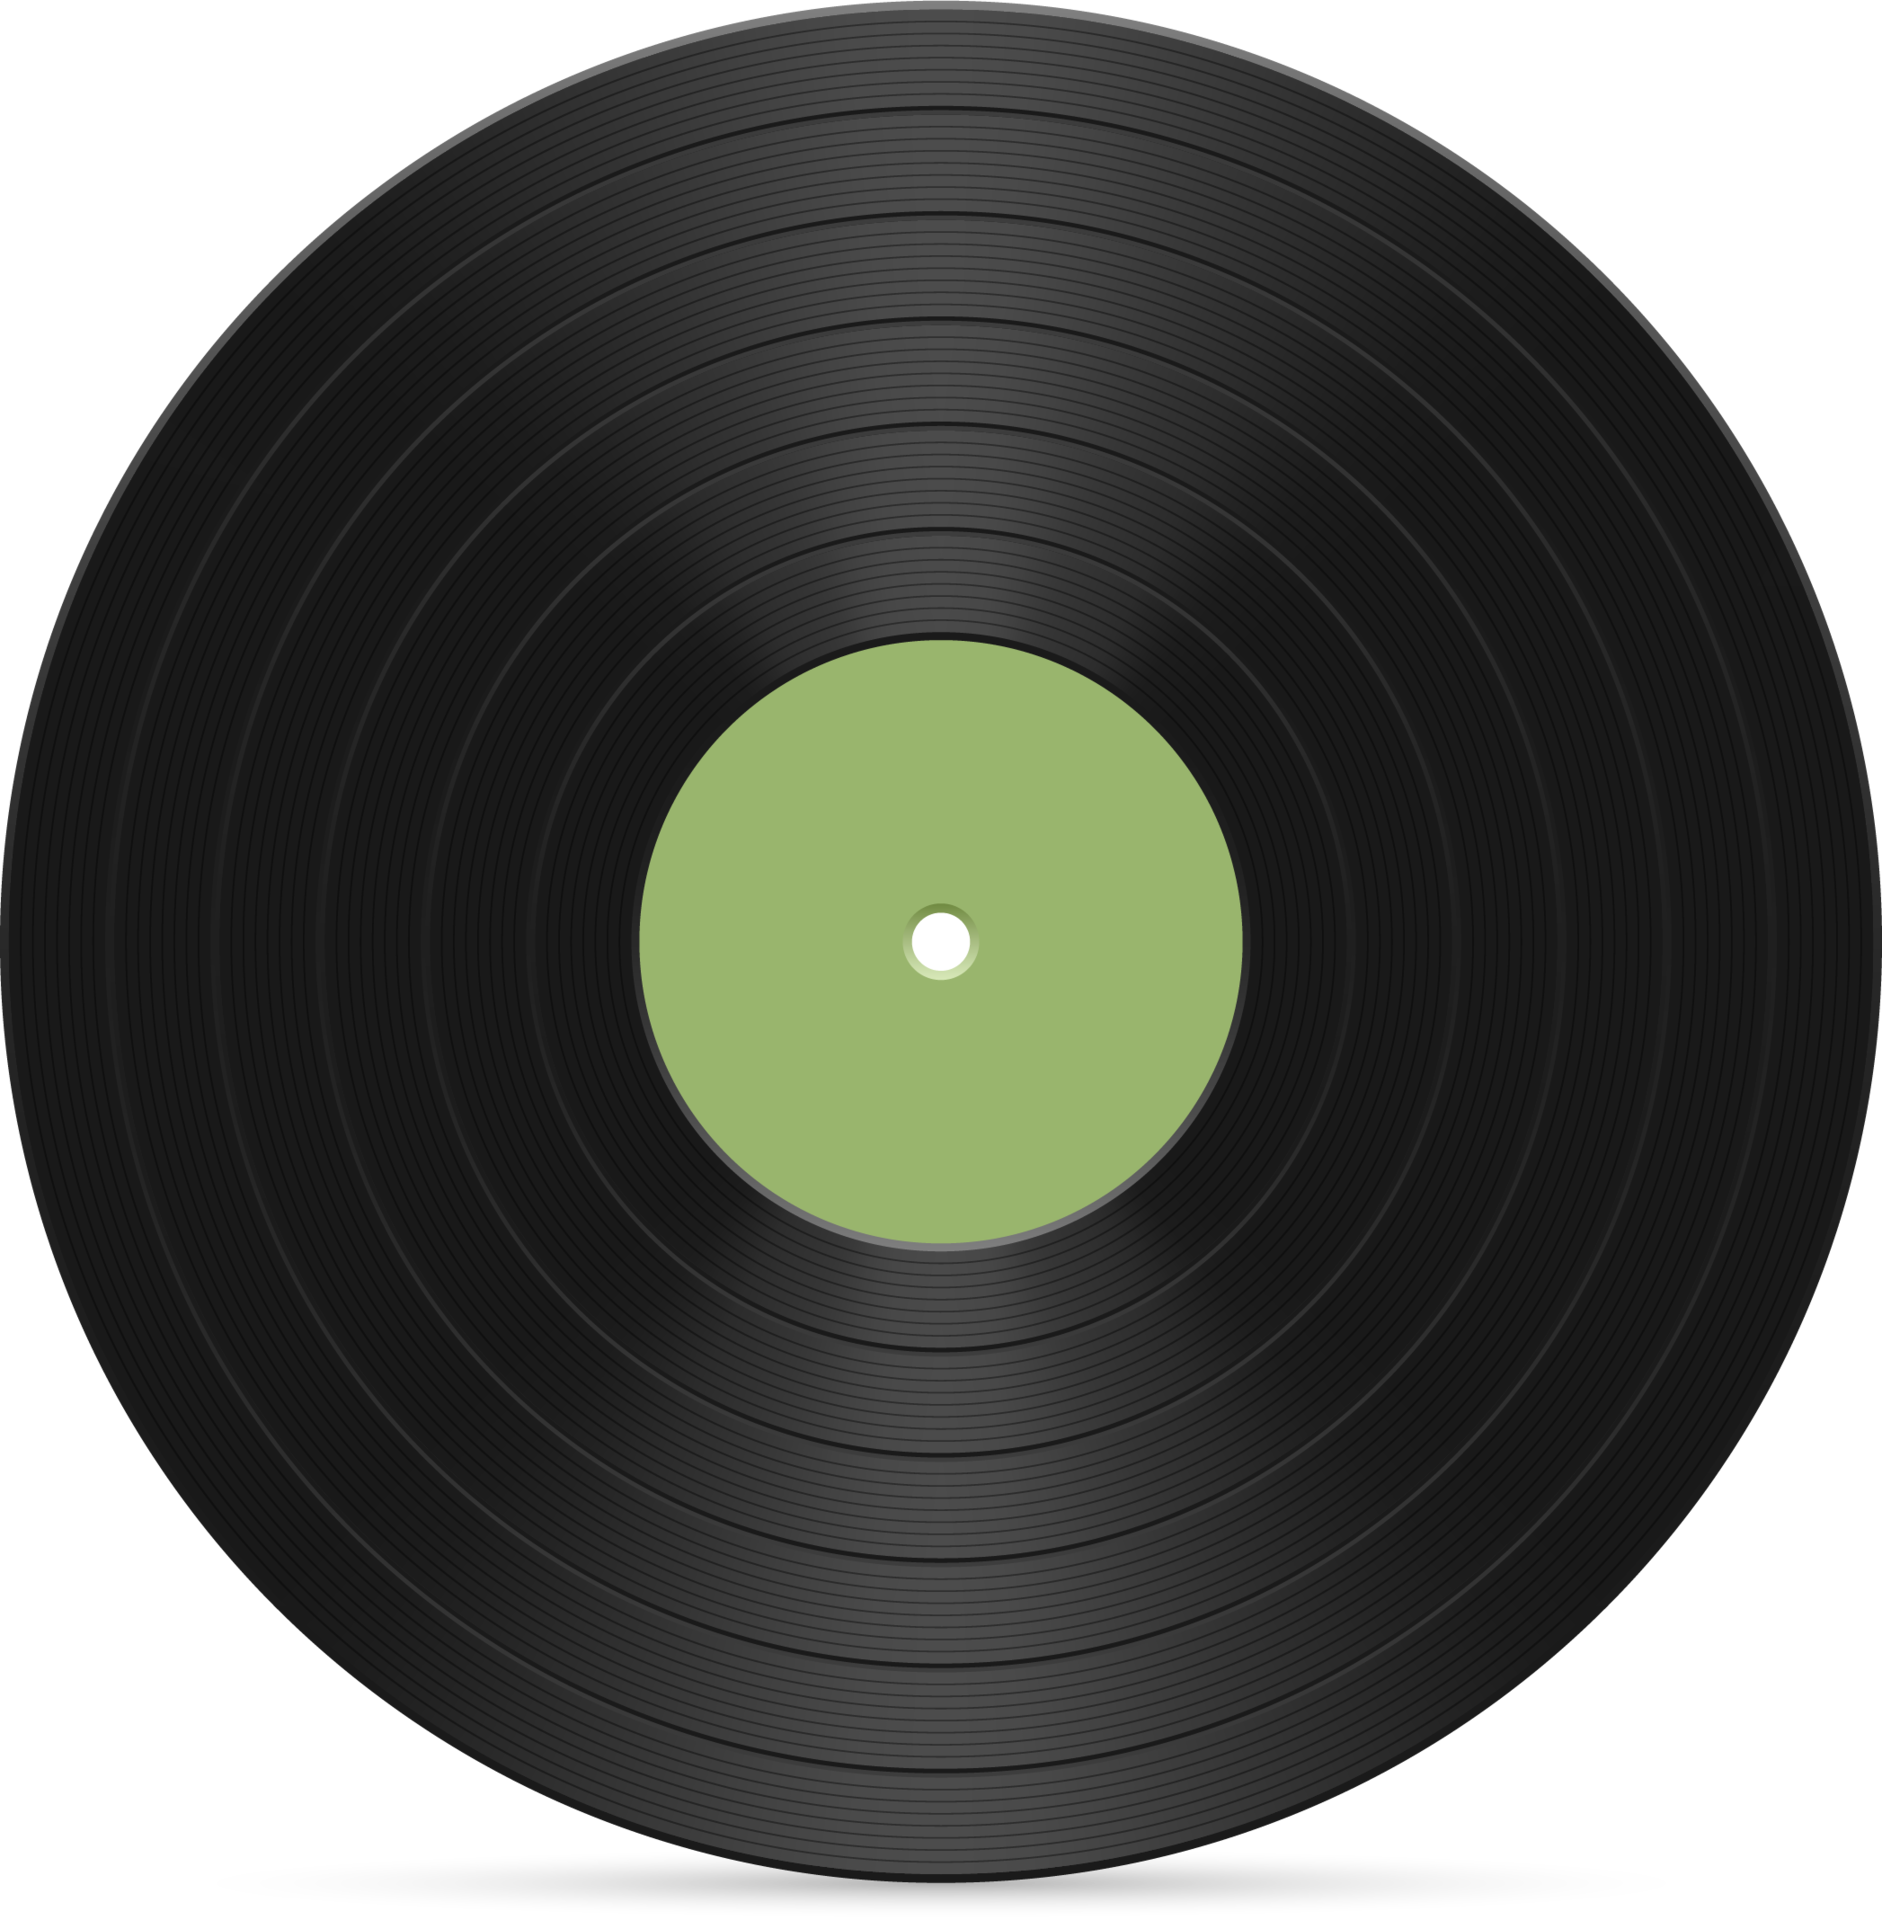
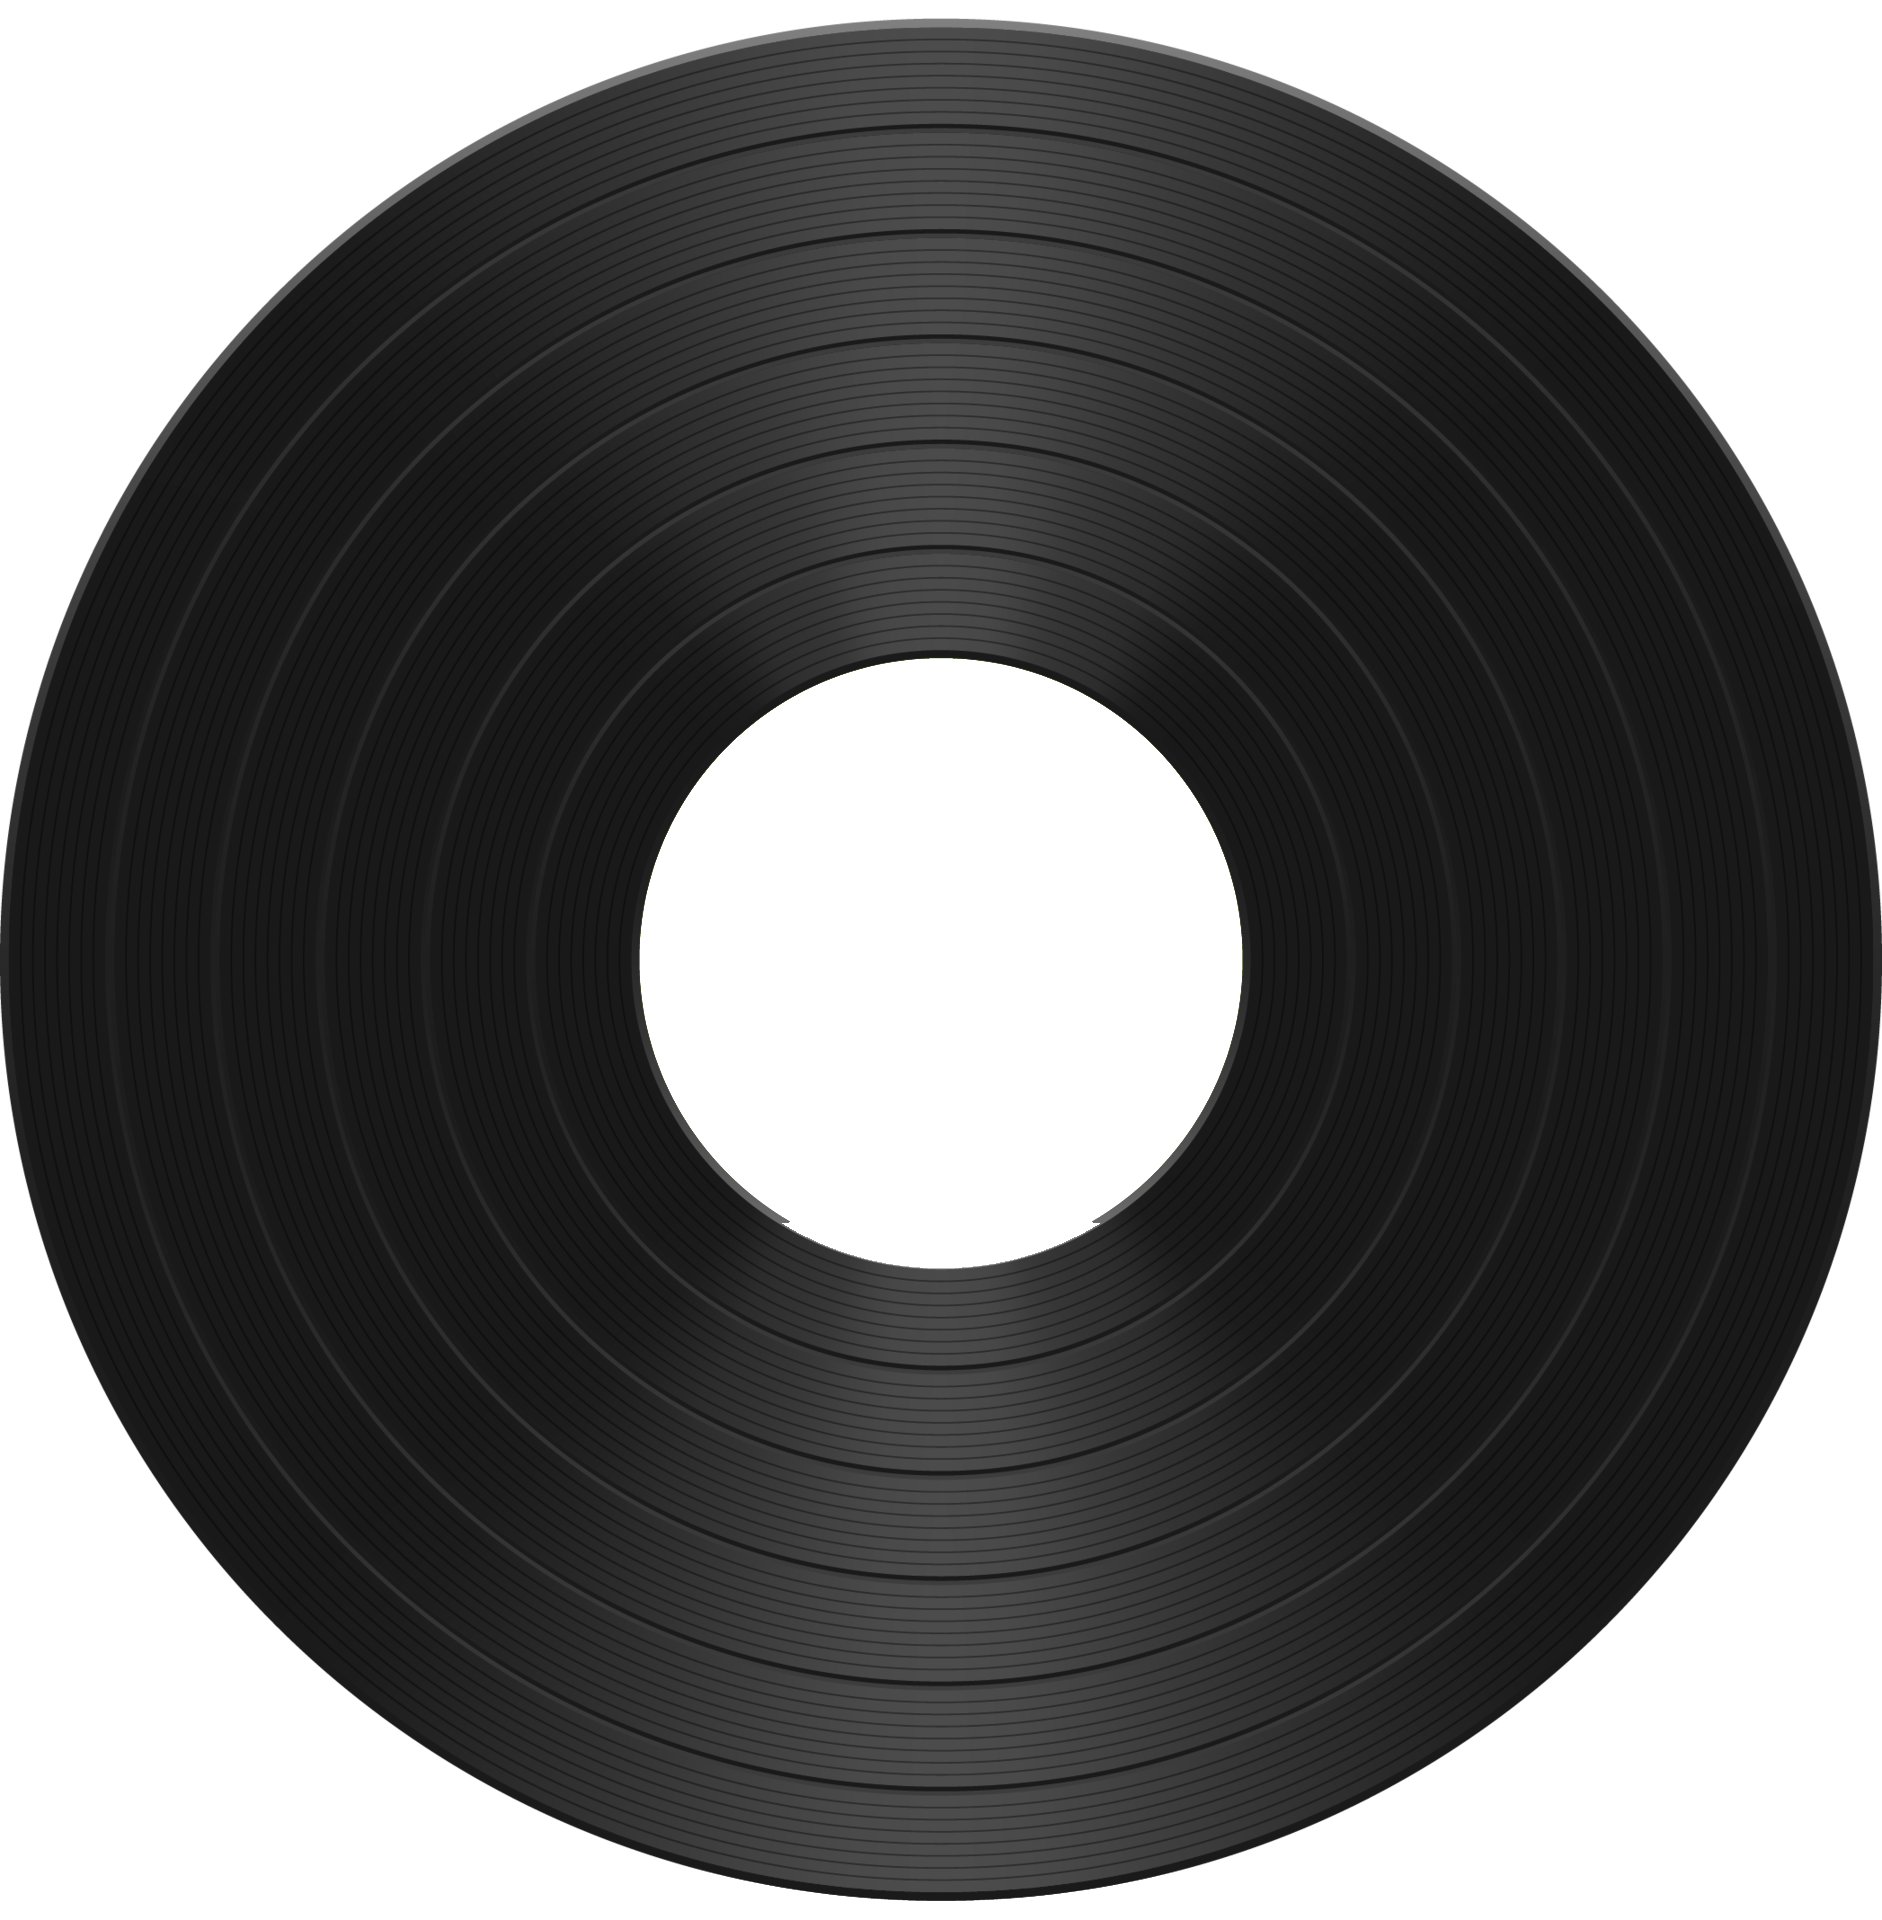
bit css

diff --git a/frontend/src/components/CardView.vue b/frontend/src/components/CardView.vue
@@ -12,31 +12,40 @@ const dailyAlbum = getDailyAlbum
       <h1>Try this tune</h1>
       <p>Daily Camp's Musical Recommendation</p>
       <h2>{{ dailyAlbum.date }}</h2>
-      <div class="backgroundvinyl">
+      <div class="images">
         <img class="item" :src="dailyAlbum.image" />
+        <div
+          class="coverBackground"
+          :style="{ backgroundImage: 'url(' + dailyAlbum.image + ')' }"
+        ></div>
+        <img class="backgroundImage" src="../assets/images/half-vinyl.png" />
       </div>
       <div class="container">
         <h3>
           <b>{{ dailyAlbum.title }}</b>
         </h3>
         <h4>by {{ dailyAlbum.artist[0] }}</h4>
-        <p>
-          Lorem ipsum der aal Aalt ich brauch hier ein wenig Content am besten so viel das es
-          Overflowt also schreib ich hier einfach mal weiter. Sollte passen jetzt. Oder ein zwei
-          Sätze mehr sollten auch nicht wehtun.
-        </p>
+        <a :href="'https://daily.bandcamp.com' + dailyAlbum.link"> Learn more </a>
       </div>
     </div>
   </main>
 </template>
 <style>
-img {
-  height: 300px;
-  border-radius: 5%;
+.images {
+  display: flex;
+  align-items: center;
+  min-width: 500px;
+  justify-content: center;
 }
 
-.card:hover {
-  box-shadow: 0 8px 16px 0 rgba(0, 0, 0, 0.2);
+.coverBackground {
+  background-size: cover;
+  background-repeat: no-repeat;
+  background-color: aqua;
+}
+
+.backgroundImage {
+  height: 280px;
 }
 
 .container {
@@ -53,29 +62,32 @@ img {
   display: flex;
   flex-direction: column;
   align-items: center;
-  box-shadow: 0 4px 8px 0 rgba(0, 0, 0, 0.2);
   transition: 0.3s;
-  background-color: rgb(89, 99, 99);
+  background-color: #2a2a2a;
   border-radius: 2%;
   text-align: center;
   margin: auto;
+  min-width: 500px;
+  border-color: #444444;
+  border-style: solid;
 }
 
 .backgroundvinyl {
-  background-image: url(../assets/images/vinyl.png);
-  background-size: cover;
+  background-image: url(dailyAlbum.image);
+  background-size: contain;
   background-repeat: no-repeat;
-  background-position: 20px;
   height: 250px;
   display: flex;
   align-items: center;
+  background-position: center;
   justify-content: center;
+  min-width: 200px;
 }
 
 .item {
-  height: 200px;
   width: auto;
   border-radius: 5%;
+  height: 300px;
 }
 
 .container {

diff --git a/frontend/src/assets/base.css b/frontend/src/assets/base.css
@@ -24,7 +24,7 @@
 
 /* semantic color variables for this project */
 :root {
-  --background: #1f2124;
+  --background: #232323;
   --color-background: var(--background);
   --color-background-soft: var(--vt-c-white-soft);
   --color-background-mute: var(--vt-c-white-mute);
